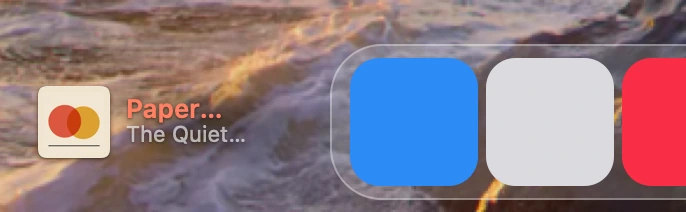
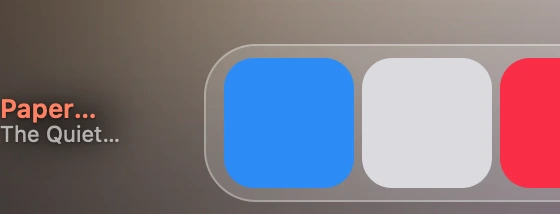
Sit right of the Dock, read Aerial wallpapers, soften the veil
- Needle now defaults to the right of the Dock: Tape takes the left, so
  the two share the Dock between them instead of overlapping.
- For an Aerial, macOS reports the default picture; Needle reads the
  Aerial's own still from the wallpaper store to choose light or dark text.
- The shade behind the words ends inside them, so its blur fades out
  before the window's edge instead of stopping at it.
- README pictures from a real screenshot: Tape, the Dock and Needle.

diff --git a/NeedleTests/NeedleTests.swift b/NeedleTests/NeedleTests.swift
@@ -265,3 +265,31 @@ import Testing
         #expect(CornerController.corner(for: layout(), side: .right) == 1610)
     }
 }
+
+// MARK: Wallpaper
+
+@Suite struct AerialWallpaper {
+    /// A wallpaper store like macOS's own, with `provider` chosen for the desktop.
+    func store(provider: String, asset: String = "4DFE24ED-71CC-42D4-9FE8-3B8959B6CC19", still: Bool = true) throws -> URL {
+        let root = FileManager.default.temporaryDirectory.appending(path: "needle-wallpaper-\(UUID().uuidString)")
+        try FileManager.default.createDirectory(at: root.appending(path: "Store"), withIntermediateDirectories: true)
+        try FileManager.default.createDirectory(at: root.appending(path: "aerials/thumbnails"), withIntermediateDirectories: true)
+        let configuration = try PropertyListSerialization.data(fromPropertyList: ["assetID": asset], format: .binary, options: 0)
+        let choice: [String: Any] = ["Provider": provider, "Configuration": configuration]
+        let index: [String: Any] = ["AllSpacesAndDisplays": ["Desktop": ["Content": ["Choices": [choice]]]]]
+        try PropertyListSerialization.data(fromPropertyList: index, format: .binary, options: 0).write(to: root.appending(path: "Store/Index.plist"))
+        if still { try Data([0x89]).write(to: root.appending(path: "aerials/thumbnails/\(asset).png")) }
+        return root
+    }
+
+    @Test func anAerialIsReadFromItsStill() throws {
+        let root = try store(provider: "com.apple.wallpaper.choice.aerials")
+        #expect(Wallpaper.aerialStill(store: root)?.lastPathComponent == "4DFE24ED-71CC-42D4-9FE8-3B8959B6CC19.png")
+    }
+
+    @Test func aPictureIsLeftToTheSystem() throws {
+        #expect(Wallpaper.aerialStill(store: try store(provider: "com.apple.wallpaper.choice.image")) == nil)
+        #expect(Wallpaper.aerialStill(store: try store(provider: "com.apple.wallpaper.choice.aerials", still: false)) == nil)
+        #expect(Wallpaper.aerialStill(store: try store(provider: "com.apple.wallpaper.choice.aerials", asset: "../../etc")) == nil)
+    }
+}

diff --git a/Needle/Corner/Wallpaper.swift b/Needle/Corner/Wallpaper.swift
@@ -81,6 +81,29 @@ nonisolated enum Wallpaper {
         return CGImageSourceCreateThumbnailAtIndex(source, 0, options as CFDictionary)
     }
 
+    /// The picture on the desktop. For an Aerial, which is a video, macOS reports the default
+    /// picture instead; the Aerial's own still is in the wallpaper store, and that's what to read.
+    static func imageURL(for screen: NSScreen) -> URL? {
+        aerialStill() ?? NSWorkspace.shared.desktopImageURL(for: screen)
+    }
+
+    /// The still of the Aerial on the desktop, when the desktop is an Aerial.
+    static func aerialStill(store: URL = URL.applicationSupportDirectory.appending(path: "com.apple.wallpaper")) -> URL? {
+        guard let data = try? Data(contentsOf: store.appending(path: "Store/Index.plist")),
+              let index = try? PropertyListSerialization.propertyList(from: data, format: nil) as? [String: Any] else { return nil }
+        for scope in ["AllSpacesAndDisplays", "SystemDefault"] {
+            guard let desktop = (index[scope] as? [String: Any])?["Desktop"] as? [String: Any],
+                  let choice = ((desktop["Content"] as? [String: Any])?["Choices"] as? [[String: Any]])?.first else { continue }
+            guard choice["Provider"] as? String == "com.apple.wallpaper.choice.aerials" else { return nil }
+            guard let configuration = choice["Configuration"] as? Data,
+                  let settings = try? PropertyListSerialization.propertyList(from: configuration, format: nil) as? [String: Any],
+                  let asset = settings["assetID"] as? String, !asset.contains("/") else { return nil }
+            let still = store.appending(path: "aerials/thumbnails/\(asset).png")
+            return FileManager.default.fileExists(atPath: still.path) ? still : nil
+        }
+        return nil
+    }
+
     static func scaling(for screen: NSScreen) -> Scaling {
         let options = NSWorkspace.shared.desktopImageOptions(for: screen) ?? [:]
         let allowClipping = options[.allowClipping] as? Bool ?? true

diff --git a/Needle/Drawing/Slide.swift b/Needle/Drawing/Slide.swift
@@ -332,7 +332,8 @@ nonisolated enum SlideRenderer {
         let margin: CGFloat = 26
         let size = CGSize(width: width + margin * 2, height: m.height)
         let dark = style.isDark
-        let core = CGRect(x: margin + 6, y: (m.height * 0.34).rounded(), width: max(1, width - 12), height: (m.height * 0.32).rounded())
+        // Its ends stay well inside the words, so its blur fades out before the window's edge.
+        let core = CGRect(x: margin + 10, y: (m.height * 0.34).rounded(), width: max(1, width - 34), height: (m.height * 0.32).rounded())
         guard let canvas = Bitmap(size: size, scale: style.scale) else { return (nil, .zero) }
         canvas.fillCapsule(core, color: CGColor(gray: dark ? 0 : 1, alpha: dark ? 0.55 : 0.66))
         guard let sharp = canvas.image() else { return (nil, .zero) }

diff --git a/Needle/Corner/CornerController.swift b/Needle/Corner/CornerController.swift
@@ -186,7 +186,7 @@ final class CornerController {
     private func sampleWallpaper(for frame: CGRect) {
         guard model.settings.contrast == .automatic else { return }
         guard let screen = panel.screen ?? NSScreen.screens.first(where: { $0.frame.intersects(frame) }),
-              let url = NSWorkspace.shared.desktopImageURL(for: screen) else { return }
+              let url = Wallpaper.imageURL(for: screen) else { return }
         let region = frame.offsetBy(dx: -screen.frame.minX, dy: -screen.frame.minY)
         let modified = (try? url.resourceValues(forKeys: [.contentModificationDateKey]).contentModificationDate)?.timeIntervalSince1970 ?? 0
         let key = "\(url.path)|\(modified)|\(region.integral)"

diff --git a/Needle/App/Preview.swift b/Needle/App/Preview.swift
@@ -73,7 +73,7 @@ enum Preview {
         let metrics = style.metrics
         guard let frame = CornerController.frame(for: layout, side: model.settings.side, gap: model.settings.dockGap, height: metrics.height) else { return }
         let local = frame.offsetBy(dx: -screen.frame.minX, dy: -screen.frame.minY)
-        let wallpaperURL = NSWorkspace.shared.desktopImageURL(for: screen)
+        let wallpaperURL = Wallpaper.imageURL(for: screen)
         let scaling = Wallpaper.scaling(for: screen)
         if !style.glass, model.settings.contrast == .automatic, let wallpaperURL,
            let sample = Wallpaper.sample(imageAt: wallpaperURL, screenSize: screen.frame.size, region: local, scaling: scaling) {

diff --git a/Needle/App/Settings.swift b/Needle/App/Settings.swift
@@ -55,7 +55,8 @@ final class Settings {
 
     init(defaults: UserDefaults = .standard) {
         self.defaults = defaults
-        side = defaults.string(forKey: Key.side).flatMap(DockSide.init(rawValue:)) ?? .left
+        // Right of the Dock: Tape takes the left, so the two share the Dock between them.
+        side = defaults.string(forKey: Key.side).flatMap(DockSide.init(rawValue:)) ?? .right
         dockGap = defaults.object(forKey: Key.dockGap) as? Double ?? 22
         fontSize = defaults.object(forKey: Key.fontSize) as? Double ?? 14
         contrast = defaults.string(forKey: Key.contrast).flatMap(Contrast.init(rawValue:)) ?? .automatic

diff --git a/Needle/App/Shots.swift b/Needle/App/Shots.swift
@@ -72,7 +72,7 @@ enum Shots {
 
     /// Transparent windows are composited onto the wallpaper that's really behind them.
     private static func shoot(_ window: NSWindow, _ name: String, into folder: URL) async {
-        guard !alpha, let screen = window.screen ?? NSScreen.main, let url = NSWorkspace.shared.desktopImageURL(for: screen) else {
+        guard !alpha, let screen = window.screen ?? NSScreen.main, let url = Wallpaper.imageURL(for: screen) else {
             await capture(window, name, into: folder, background: nil)
             return
         }

diff --git a/Needle/Settings/AppearancePane.swift b/Needle/Settings/AppearancePane.swift
@@ -89,7 +89,7 @@ struct CornerPreview: View {
     private func loadBackdrop() async {
         guard let frame = model.corner?.stripFrame,
               let screen = NSScreen.screens.first(where: { $0.frame.intersects(frame) }),
-              let url = NSWorkspace.shared.desktopImageURL(for: screen) else { return }
+              let url = Wallpaper.imageURL(for: screen) else { return }
         // A slice as wide as the pane, centred on the corner.
         let width: CGFloat = 520
         let height: CGFloat = 100

diff --git a/README.md b/README.md
@@ -16,7 +16,7 @@ browser, any app that plays.
 Needle is [Tape](https://github.com/Yvsleyen00941/Tape)'s other side. It uses the same corner, the
 same Focus design and the same fit to the Dock, with an album cover where Tape shows a stock.
 
-![Needle beside the Dock, showing Undertow by Marina Vale from Low Tide](docs/corner.webp)
+![Needle beside the Dock on a 14-inch MacBook, showing Undertow by Marina Vale](docs/corner.webp)
 
 <sub>The records in these pictures are made up and their covers are drawn in code (`-NeedleDemo YES`), so no one's library is shown.</sub>
 
@@ -89,17 +89,22 @@ next:
 
 | Strip | Shows |
 |---|---|
-| wide | cover, title in its colour over *artist · album*, and the clock ![](docs/corner.webp) |
+| wide | cover, title in its colour over *artist · album*, and the clock |
 | on glass | the same on a pane of the Dock's glass, its corners concentric with the cover's ![](docs/glass.webp) |
 | about 130 pt | a smaller cover and smaller words, without the clock ![](docs/compact.webp) |
 | about 74 pt | the cover and the clock: the corner made for an album cover ![](docs/narrow.webp) |
 | narrower still | the cover alone, as large as the strip allows |
 
+Needle sits right of the Dock by default, and Tape sits left, so the Dock is between them. Settings →
+Placement moves it to the left.
+
+![Tape left of the Dock, Needle right of it](docs/both.webp)
+
 Placement is Tape's. The window sits between the screen's edge and the Dock's glass, centred on the
 icons. When there's room to spare, the slide is centred in the corner. It follows the Dock as apps
 open and close and as the Dock grows or shrinks, slides in and out with an auto-hiding Dock, and
 redraws for each screen's scale. Text is light or dark to suit the wallpaper behind it, or you can
-choose. Settings → Placement chooses the side and the distance from the Dock.
+choose. Settings → Placement also sets the distance from the Dock.
 
 ![Settings](docs/settings.webp)
 
@@ -146,8 +151,9 @@ Debug and checking:
 - MediaRemote is private. If a future macOS closes the way in through perl, Needle shows
   "Now Playing can't be read" in its menu and in Settings, rather than guessing.
 - Some players never report the track's length (live radio, some web players). Those tracks have no clock.
-- Like Tape, Needle reads the desktop picture to choose light or dark text. With an Aerial
-  wallpaper, macOS reports the default picture rather than the moving one, so set Contrast by hand
-  if the text looks wrong.
+- Needle reads the desktop picture behind the corner to choose light or dark text. For an Aerial,
+  macOS reports the default picture instead of the video, so Needle reads that Aerial's still
+  from the wallpaper store instead. The video keeps moving, so if a scene turns from day to night,
+  set Contrast by hand.
 
 MIT licence. © 2026 Yorben Vander Sleyen.
